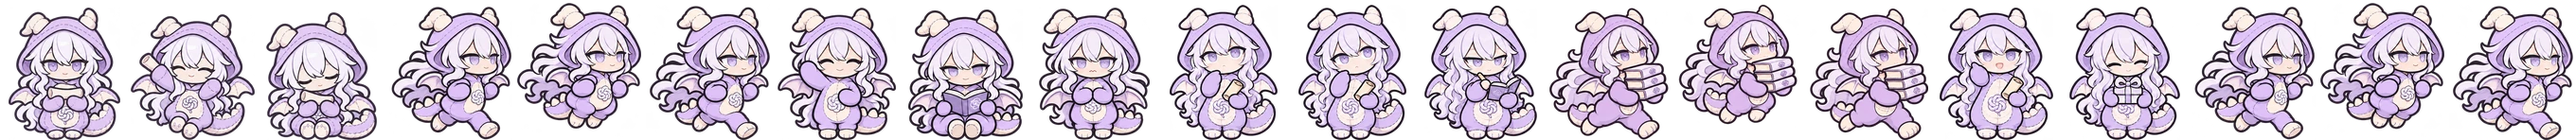
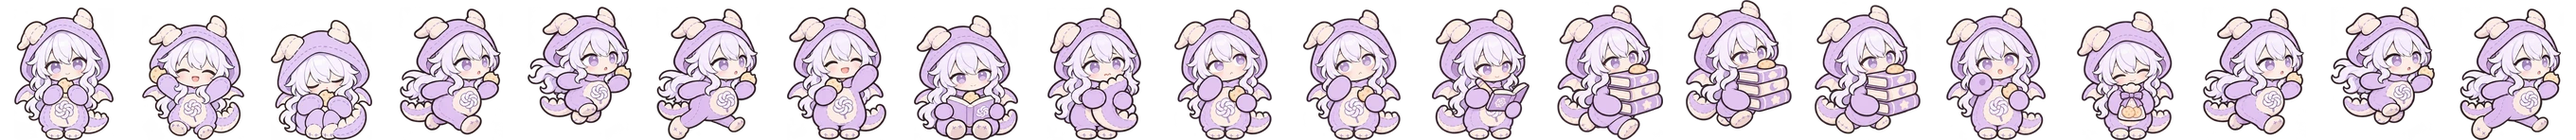
降智龙崽：自己的一套迷你小帮手（啃饼干、袖子当爪子），不再照原版 GPT 改衣服

diff --git a/tools/mini_art.py b/tools/mini_art.py
@@ -10,6 +10,8 @@
 
     python3 tools/mini_art.py new <批次> mini_move --chars gpt,… --base-batch <批次>
 --base-batch：本批没有底图（原版的 mini_more）时去那个批次找（loki 选的那版优先，没选用版本号最大的）。
+退回重画一串时按底图顺序退（mini → mini_more → mini_work → mini_carry，原版再皮肤）：底图那张已经退回的，
+后面的提示词就指向它要画的新版（…__vN.png），不会拿退回前的旧版当底图。
 
 出题 / 退回重写提示词的 mini 批次请用这个，不要直接用 art.py（art.py 会按普通姿态重写，皮肤就没了底图）。
 check、review、status 两个都一样。
@@ -28,6 +30,11 @@ BASE_BATCH = None
 
 def base_source(batch, st, cid, base_pose):
     src, in_batch = _base_source(batch, st, cid, base_pose)
+    if in_batch:   # 底图那张被退回重画了（现有版本都不算数）：指向要画的新版，不用旧的
+        item = next((i for i in st["items"] if i["char"] == cid and i["pose"] == base_pose), {})
+        vs = art.versions(batch, cid, base_pose)
+        if item.get("state") == "退回" and vs and item.get("rejected", 0) >= vs[-1][0]:
+            return art.done_pattern(batch, cid, base_pose), True
     if in_batch or not BASE_BATCH:
         return src, in_batch
     other = art.load(BASE_BATCH)
@@ -68,20 +75,27 @@ def write_md(batch, item, ch, title, attach, blocks):
     p.write_text("\n".join(md))
 
 
+def own_mini(cid):
+    """角色文件写了「迷你: 自己画」的皮肤：小帮手不照原版改衣服，像新角色一样按她自己的动作画（比如降智龙崽）"""
+    p = art.ART / "角色" / f"{cid}.md"
+    return p.exists() and bool(art.re.search(r"^迷你: *自己画\s*$", p.read_text(), art.re.M))
+
+
 def write_prompt(batch, st, item):
     ch, pose = art.read_character(item["char"]), read_pose(item["pose"], item["char"])
     if not pose["pose"].startswith("mini"):
         return _write_prompt(batch, st, item)
     out = art.done_pattern(batch, ch["id"], pose["pose"])
-    if ch["base"]:   # 皮肤：拿原版同一张改衣服
+    if ch["base"] and not own_mini(ch["id"]):   # 皮肤：拿原版同一张改衣服
         src, in_batch = art.base_source(batch, st, ch["base"], pose["pose"])
         if in_batch:
             src = art.done_pattern(batch, ch["base"], pose["pose"])
         attach = [(src, f"底图：原版 {ch['base']} 的 {pose['pose']}"
                    + ("（本批画好的那张：loki 在验收页选了哪版就用哪版，没选用版本号最大的）" if in_batch else "") + "，要改的就是它")]
         attach += [(art.ROOT / r, "换装参考：只看衣服、发饰和道具，不要照它画脸和姿势") for r in ch["refs"]]
-        blocks = [art.rule("迷你-换衣"), ch["lock"],
-                  f"POSE ({pose['pose']}): the same sheet as the first image, in this skin.\nSave as: {out.name}"]
+        # 皮肤自己写了这一张的动作（比如换成哪个道具）就用它写的，没写就是「照第一张、换这身衣服」
+        own = ch["lines"].get(pose["pose"]) or "the same sheet as the first image, in this skin."
+        blocks = [art.rule("迷你-换衣"), ch["lock"], f"POSE ({pose['pose']}): {own}\nSave as: {out.name}"]
         return write_md(batch, item, ch, pose["title"] + "（皮肤：拿原版改衣服）", attach, blocks)
     _write_prompt(batch, st, item)   # 原版：照常出题，再补上画风参考
     if pose["style"] and ch["id"] not in Path(pose["style"]).stem.split("-"):

diff --git a/art/任务/2026-11-23-迷你小帮手-降智龙崽/提示词/gpt-onesie__mini_work.md b/art/任务/2026-11-23-迷你小帮手-降智龙崽/提示词/gpt-onesie__mini_work.md
@@ -1,0 +1,41 @@
+# GPT · 降智龙崽 · mini_work · 迷你小帮手 · 第三张（思考 2 帧、记笔记、搬书、喊你、递礼物）
+
+- 保存到：`art/任务/2026-11-23-迷你小帮手-降智龙崽/成品/gpt-onesie__mini_work__vN.png`：N 换成下一个没用过的数字（还没有就是 v1，已经有 v1、v2 就存 v3）。**每画一次都存新的一版，不要覆盖、删除、挪走旧的**（PNG，透明背景，生图时开 `transparent_background: true`）
+- 附件（按顺序附上）：
+  1. `art/任务/2026-11-23-迷你小帮手-降智龙崽/成品/gpt-onesie__mini__vN.png`（底图：mini（本批画好的那张：loki 在验收页选了哪版就用哪版，没选用版本号最大的））　⚠ 文件还不存在：先画它
+  2. `characters/gpt-onesie/idle.webp`（设计参考）
+  3. `characters/gpt-onesie/portrait.webp`（设计参考）
+
+## 提示词
+
+```text
+Create a third sprite sheet for the SAME tiny "mini helper" as the first attachment. The first attachment is her approved mini sheet (idle, happy, sleep, walk): copy that exact mini — same head size, face, eyes, hair, hair ornaments on the same side, outfit, colors, signature prop, outline weight and shading. It must look like more frames from the same sheet, not a new design. The other attachments are the approved big character design, for colors only. Do not draw the big character. It is shown at about 100 pixels tall next to her, so it must read clearly when small.
+
+LAYOUT: One landscape image, 1536x1024, with a real transparent background (transparent_background: true). Exactly six minis in a 3-column x 2-row grid, one per cell, each centered in its cell and drawn at the same scale as each other and as the minis in the first attachment (each about 360 px tall when standing). Leave wide transparent gaps: no part of one mini may touch another mini or the image edge.
+
+TOP ROW, left to right:
+1. think-a: standing and facing the viewer, one finger on her chin, eyes looking up to one side, small thoughtful "hmm" mouth, her signature prop held against her side with the other arm.
+2. think-b: the second frame of the same thinking loop: exactly the same body, feet, prop and arm as think-a; only her head tilts a little to the OTHER side, eyes looking up to the other side, and the finger taps her cheek instead of her chin.
+3. notes: standing in three-quarter view, a small notebook held open in one hand, writing in it with a tiny pencil in the other hand, focused face.
+
+BOTTOM ROW, left to right:
+4. carry: running toward the viewer's RIGHT in three-quarter view, mid-stride, carrying a tall stack of three books in both arms, peeking over the stack, busy determined face.
+5. point: standing and facing the viewer, looking straight at the viewer, one arm stretched up pointing at the viewer as if saying "hey, you!", mouth open, her signature prop under her other arm.
+6. gift: bowing slightly toward the viewer, holding out a small wrapped gift box with a ribbon in both hands, shy happy smile, eyes closed; her signature prop is not in this pose.
+
+FORMAT: A thick, continuous dark outline around each whole silhouette; flat two-tone cel shading; few, chunky details and no thin lines that vanish when shrunk. No floor, ground line, cast shadow, motion lines, dust, glow, frame, text, letters, numbers, question marks, symbols, hearts, sweat drops, sparkles or other effects: the app draws all effects itself.
+
+CHARACTER LOCK — GPT (the white dragon girl, anime-girl personification of GPT) in her "dragon-cub onesie" skin, an alternate outfit. In this outfit she is a sweet, slightly airheaded version of herself: gentle, a half-beat slow to react, absent-minded and curious, quietly over-careful. Soft and cute, NEVER dumb or mocked: no drool, no crossed eyes, no blank or dead eyes, no silly faces.
+Keep exactly:
+- Very long, wavy WHITE hair (soft lavender tint only in the shadows) flowing out from under the hood over her shoulders. The hood completely covers the crown, with a smooth arc of lavender fabric between its two stuffed horns. White hair is visible only at the hood opening and from underneath its edges. No ahoge or tuft may poke out of the crown.
+- Big round pale-lavender eyes with soft round highlights; soft pink blush.
+- An oversized lavender dragon-cub onesie with dashed stitch lines. The hood is always up, with two cream stuffed horns (the one on the viewer's left flops over slightly). The long sleeves hide her hands ("sleeve-paws"); when she holds something, she grips it with the sleeve ends or only her fingertips peek out.
+- A cream belly with stitched scale lines, and on its center a handmade white felt knot patch (six interlaced rounded loops, lavender running stitches around it, one short loose thread dangling below). Whenever her front is visible, this patch must be visible and recognizable.
+- Round cream footies with stitched claws; small lavender plush wings with cream undersides on her back; a fat stuffed lavender tail with cream spikes curling out on the viewer's right.
+- Her real horns, elf ears and dress are NOT drawn. NO other knot ornaments, NO tassels, NO hair accessories.
+Palette: lavender onesie, cream belly / horns / paws / spikes, white hair, pale-pink blush. Keep it soft; never add strong colors.
+How she shows emotion: soft and small. Head tilts, the floppy stuffed horn droops or perks up, long sleeves flop, plush wings flutter or droop, the tail sways. Even big emotions stay gentle: a small hop, a little "o" mouth, a closed-eye smile. No wide grins, no shouting.
+
+POSE (mini_work): Her own cute versions of the six cells, same order and meaning: Her signature prop in all her mini sheets is a small round cream cookie with one bite missing, held with her sleeve-paws (her hands always stay hidden in the long sleeves). Keep the felt knot patch on her belly whenever her front is visible. She is extra soft and cute: round squishy cheeks, a sleepy-sweet face, the floppy stuffed horn and long empty sleeve tips doing the acting. think-a: one sleeve-paw pressed against her cheek, eyes drifting up to one side, a slow "hmm" mouth, the cookie in the other sleeve. think-b: exactly the same body, feet and cookie arm as think-a; only her head tilts the other way, the floppy horn flops to the other side and the sleeve-paw presses the other spot on her cheek. notes: holding a small notebook open in one sleeve-paw and writing in it with a stubby crayon gripped in the other sleeve end, tail tip curled in concentration. carry: running toward the viewer's RIGHT carrying a stack of three picture books in both sleeve-paws with the cookie balanced on top, peeking over it. point: pointing at the viewer with one empty floppy sleeve tip, a half-beat-late surprised "o" mouth as if she just remembered something, the cookie in the other sleeve. gift: bowing slightly and holding out a small paper bag of cookies tied with a lavender ribbon in both sleeve-paws, a shy happy closed-eye smile.
+Save as: gpt-onesie__mini_work__vN.png
+```

diff --git a/art/任务/2026-11-23-迷你小帮手-降智龙崽/提示词/gpt-onesie__mini_more.md b/art/任务/2026-11-23-迷你小帮手-降智龙崽/提示词/gpt-onesie__mini_more.md
@@ -1,0 +1,41 @@
+# GPT · 降智龙崽 · mini_more · 迷你小帮手 · 第二张（跑步 3 帧 + 挥手、看书、着急）
+
+- 保存到：`art/任务/2026-11-23-迷你小帮手-降智龙崽/成品/gpt-onesie__mini_more__vN.png`：N 换成下一个没用过的数字（还没有就是 v1，已经有 v1、v2 就存 v3）。**每画一次都存新的一版，不要覆盖、删除、挪走旧的**（PNG，透明背景，生图时开 `transparent_background: true`）
+- 附件（按顺序附上）：
+  1. `art/任务/2026-11-23-迷你小帮手-降智龙崽/成品/gpt-onesie__mini__vN.png`（底图：mini（本批画好的那张：loki 在验收页选了哪版就用哪版，没选用版本号最大的））　⚠ 文件还不存在：先画它
+  2. `characters/gpt-onesie/idle.webp`（设计参考）
+  3. `characters/gpt-onesie/portrait.webp`（设计参考）
+
+## 提示词
+
+```text
+Create a second sprite sheet for the SAME tiny "mini helper" as the first attachment. The first attachment is her approved mini sheet (idle, happy, sleep, walk): copy that exact mini — same head size, face, eyes, hair, hair ornaments on the same side, outfit, colors, signature prop, outline weight and shading. It must look like more frames from the same sheet, not a new design. The other attachments are the approved big character design, for colors only. Do not draw the big character. It is shown at about 100 pixels tall next to her, so it must read clearly when small.
+
+LAYOUT: One landscape image, 1536x1024, with a real transparent background (transparent_background: true). Exactly six minis in a 3-column x 2-row grid, one per cell, each centered in its cell and drawn at the same scale as each other and as the minis in the first attachment (each about 360 px tall when standing). Leave wide transparent gaps: no part of one mini may touch another mini or the image edge.
+
+TOP ROW, left to right: a 3-frame run cycle, all three running toward the viewer's RIGHT in three-quarter view, the same angle as the walk pose in the first attachment, her signature prop tucked under one arm or held in one hand. Same head size and same body proportions in all three frames; only the legs, arms, hair and skirt move.
+1. run-a: her near (front) leg stretched forward with the heel just touching the ground, back leg pushing off behind her, opposite arm swinging forward; body slightly low.
+2. run-b: passing pose: body at its highest, both feet off the ground, one knee bent up under her, legs close together; hair and skirt lifted a little.
+3. run-c: the mirror step of run-a: her far (back) leg now stretched forward touching the ground and the near leg pushing off behind; the other arm swinging forward; body slightly low.
+
+BOTTOM ROW, left to right:
+4. wave: standing and facing the viewer, cheerful smile, one hand raised high waving, her signature prop held against her chest with the other arm.
+5. read: sitting on the ground with legs out in front, a small book open on her lap, looking down reading it, calm content face.
+6. worried: standing and facing the viewer, hugging her signature prop tightly to her chest with both arms, eyebrows raised in worry, small wobbly mouth.
+
+FORMAT: A thick, continuous dark outline around each whole silhouette; flat two-tone cel shading; few, chunky details and no thin lines that vanish when shrunk. No floor, ground line, cast shadow, motion lines, dust, glow, frame, text, letters, numbers, symbols, hearts, sweat drops, sparkles or other effects: the app draws all effects itself.
+
+CHARACTER LOCK — GPT (the white dragon girl, anime-girl personification of GPT) in her "dragon-cub onesie" skin, an alternate outfit. In this outfit she is a sweet, slightly airheaded version of herself: gentle, a half-beat slow to react, absent-minded and curious, quietly over-careful. Soft and cute, NEVER dumb or mocked: no drool, no crossed eyes, no blank or dead eyes, no silly faces.
+Keep exactly:
+- Very long, wavy WHITE hair (soft lavender tint only in the shadows) flowing out from under the hood over her shoulders. The hood completely covers the crown, with a smooth arc of lavender fabric between its two stuffed horns. White hair is visible only at the hood opening and from underneath its edges. No ahoge or tuft may poke out of the crown.
+- Big round pale-lavender eyes with soft round highlights; soft pink blush.
+- An oversized lavender dragon-cub onesie with dashed stitch lines. The hood is always up, with two cream stuffed horns (the one on the viewer's left flops over slightly). The long sleeves hide her hands ("sleeve-paws"); when she holds something, she grips it with the sleeve ends or only her fingertips peek out.
+- A cream belly with stitched scale lines, and on its center a handmade white felt knot patch (six interlaced rounded loops, lavender running stitches around it, one short loose thread dangling below). Whenever her front is visible, this patch must be visible and recognizable.
+- Round cream footies with stitched claws; small lavender plush wings with cream undersides on her back; a fat stuffed lavender tail with cream spikes curling out on the viewer's right.
+- Her real horns, elf ears and dress are NOT drawn. NO other knot ornaments, NO tassels, NO hair accessories.
+Palette: lavender onesie, cream belly / horns / paws / spikes, white hair, pale-pink blush. Keep it soft; never add strong colors.
+How she shows emotion: soft and small. Head tilts, the floppy stuffed horn droops or perks up, long sleeves flop, plush wings flutter or droop, the tail sways. Even big emotions stay gentle: a small hop, a little "o" mouth, a closed-eye smile. No wide grins, no shouting.
+
+POSE (mini_more): Her own cute versions of the six cells, same order and meaning: Her signature prop in all her mini sheets is a small round cream cookie with one bite missing, held with her sleeve-paws (her hands always stay hidden in the long sleeves). Keep the felt knot patch on her belly whenever her front is visible. She is extra soft and cute: round squishy cheeks, a sleepy-sweet face, the floppy stuffed horn and long empty sleeve tips doing the acting. Run frames: a toddler's waddling run toward the viewer's RIGHT, both floppy sleeves held out to the sides for balance (the cookie in one), the fat tail bouncing behind, a determined little "o" mouth. wave: waving a half-beat late, one long sleeve flopping high over her head with the empty sleeve tip swinging, the cookie in the other sleeve, a slow sleepy smile. read: sitting with her round footies out in front, a small picture book open on her lap with the cookie resting on the page, head tilted as she reads. worried: hugging her own fat stuffed tail with both sleeve-paws instead of the cookie, the floppy horn drooping, eyes glancing to the side, a small wobbly "o" mouth.
+Save as: gpt-onesie__mini_more__vN.png
+```

diff --git a/art/任务/2026-11-23-迷你小帮手-降智龙崽/提示词/gpt-onesie__mini.md b/art/任务/2026-11-23-迷你小帮手-降智龙崽/提示词/gpt-onesie__mini.md
@@ -1,0 +1,40 @@
+# GPT · 降智龙崽 · mini · 迷你小帮手（好感度礼物）
+
+- 保存到：`art/任务/2026-11-23-迷你小帮手-降智龙崽/成品/gpt-onesie__mini__vN.png`：N 换成下一个没用过的数字（还没有就是 v1，已经有 v1、v2 就存 v3）。**每画一次都存新的一版，不要覆盖、删除、挪走旧的**（PNG，透明背景，生图时开 `transparent_background: true`）
+- 附件（按顺序附上）：
+  1. `characters/gpt-onesie/raw/delegating.png`（底图：delegating（现在用的那张））
+  2. `characters/gpt-onesie/idle.webp`（设计参考）
+  3. `characters/gpt-onesie/portrait.webp`（设计参考）
+  4. `docs/prompts/mini-style-claude.webp`（画风参考：只看小人的比例、线条和上色，不要照它画人物）
+
+## 提示词
+
+```text
+Create a sprite sheet of a tiny "mini helper" version of the approved character. It is a desktop-pet companion shown at about 50 pixels tall next to her, so it must read clearly when very small.
+
+REFERENCE: The first attachment (delegating) shows her sending out tiny helpers. The mini is always a tiny version of HER, never an animal, mascot or pet, even if the helpers in that image are animals. The LAST attachment is the approved mini sheet of another character in this app: match its proportions, head size, outline weight, flat shading and level of detail exactly so all the minis look like one set, but draw THIS character, not that one. The mini look: super-deformed, about 2 heads tall, very big head, short limbs, simplified outfit, but the same hair color and shape, hair ornament (on the same side), key outfit colors and signature prop, so it reads as her at a glance. The other attachments are the approved character design: follow them for colors and which side each ornament is on. Do not draw the big character.
+
+LAYOUT: One square image, at least 1024x1024, with a real transparent background (transparent_background: true). Exactly four minis of the same character in a 2x2 grid, one per quadrant, each centered in its quadrant and drawn at the same scale (each about 380 px tall). Leave wide transparent gaps: no part of one mini may touch another mini or the image edge.
+
+THE FOUR POSES, in this order (top-left, top-right, bottom-left, bottom-right):
+1. idle: standing and facing the viewer, small calm smile, holding her prop.
+2. happy: jumping with both arms raised (her prop in one hand), eyes closed in a happy ^^ smile, both feet off the ground.
+3. sleep: sitting curled up and dozing, eyes closed, head tilted, prop hugged to her chest.
+4. walk: walking toward the viewer's RIGHT in three-quarter view, mid-step, prop under one arm.
+
+FORMAT: A thick, continuous dark outline around each whole silhouette; flat two-tone cel shading; few, chunky details and no thin lines that vanish when shrunk. No floor, cast shadow, glow, frame, text, letters, symbols, hearts, Zzz, sparkles or other effects: the app draws all effects itself.
+
+CHARACTER LOCK — GPT (the white dragon girl, anime-girl personification of GPT) in her "dragon-cub onesie" skin, an alternate outfit. In this outfit she is a sweet, slightly airheaded version of herself: gentle, a half-beat slow to react, absent-minded and curious, quietly over-careful. Soft and cute, NEVER dumb or mocked: no drool, no crossed eyes, no blank or dead eyes, no silly faces.
+Keep exactly:
+- Very long, wavy WHITE hair (soft lavender tint only in the shadows) flowing out from under the hood over her shoulders. The hood completely covers the crown, with a smooth arc of lavender fabric between its two stuffed horns. White hair is visible only at the hood opening and from underneath its edges. No ahoge or tuft may poke out of the crown.
+- Big round pale-lavender eyes with soft round highlights; soft pink blush.
+- An oversized lavender dragon-cub onesie with dashed stitch lines. The hood is always up, with two cream stuffed horns (the one on the viewer's left flops over slightly). The long sleeves hide her hands ("sleeve-paws"); when she holds something, she grips it with the sleeve ends or only her fingertips peek out.
+- A cream belly with stitched scale lines, and on its center a handmade white felt knot patch (six interlaced rounded loops, lavender running stitches around it, one short loose thread dangling below). Whenever her front is visible, this patch must be visible and recognizable.
+- Round cream footies with stitched claws; small lavender plush wings with cream undersides on her back; a fat stuffed lavender tail with cream spikes curling out on the viewer's right.
+- Her real horns, elf ears and dress are NOT drawn. NO other knot ornaments, NO tassels, NO hair accessories.
+Palette: lavender onesie, cream belly / horns / paws / spikes, white hair, pale-pink blush. Keep it soft; never add strong colors.
+How she shows emotion: soft and small. Head tilts, the floppy stuffed horn droops or perks up, long sleeves flop, plush wings flutter or droop, the tail sways. Even big emotions stay gentle: a small hop, a little "o" mouth, a closed-eye smile. No wide grins, no shouting.
+
+POSE (mini): Her own cute versions of the four poses, in the same order and with the same meaning (the app uses them that way): Her signature prop in all her mini sheets is a small round cream cookie with one bite missing, held with her sleeve-paws (her hands always stay hidden in the long sleeves). Keep the felt knot patch on her belly whenever her front is visible. She is extra soft and cute: round squishy cheeks, a sleepy-sweet face, the floppy stuffed horn and long empty sleeve tips doing the acting. 1. idle: standing a little pigeon-toed, nibbling the cookie held up in both sleeve-paws, cheeks puffed, head tilted, the floppy horn drooping. 2. happy: a small bouncy hop with both floppy sleeves flung up (the cookie in one of them), eyes closed in a ^^ smile, plush wings fluttering, tail curled up. 3. sleep: curled up into a round ball like a dragon egg, the hood pulled down over her eyes, her fat tail wrapped around her, the cookie hugged to her chest. 4. walk: toddling toward the viewer's RIGHT with a waddling step, long sleeves swinging, tail swaying, the cookie in one sleeve-paw.
+Save as: gpt-onesie__mini__vN.png
+```

diff --git a/art/任务/2026-11-23-迷你小帮手-降智龙崽/提示词/gpt-onesie__mini_carry.md b/art/任务/2026-11-23-迷你小帮手-降智龙崽/提示词/gpt-onesie__mini_carry.md
@@ -1,0 +1,36 @@
+# GPT · 降智龙崽 · mini_carry · 迷你小帮手 · 抱书跑 3 帧
+
+- 保存到：`art/任务/2026-11-23-迷你小帮手-降智龙崽/成品/gpt-onesie__mini_carry__vN.png`：N 换成下一个没用过的数字（还没有就是 v1，已经有 v1、v2 就存 v3）。**每画一次都存新的一版，不要覆盖、删除、挪走旧的**（PNG，透明背景，生图时开 `transparent_background: true`）
+- 附件（按顺序附上）：
+  1. `art/任务/2026-11-23-迷你小帮手-降智龙崽/成品/gpt-onesie__mini_work__v3.png`（底图：loki 选定的 mini_work v3）
+  2. `characters/gpt-onesie/idle.webp`（设计参考）
+  3. `characters/gpt-onesie/portrait.webp`（设计参考）
+
+## 提示词
+
+```text
+Create a run cycle for the SAME tiny "mini helper" as the first attachment. The first attachment is her approved mini sheet whose bottom-left mini is "carry": running to the right with a stack of three books in her arms. Copy that exact mini — same head size, face, eyes, hair, hair ornaments on the same side, outfit, colors, book stack, outline weight and shading. It must look like more frames from the same sheet, not a new design. The other attachments are the approved big character design, for colors only. Do not draw the big character. It is shown at about 100 pixels tall next to her, so it must read clearly when small.
+
+LAYOUT: One landscape image, 1536x1024, with a real transparent background (transparent_background: true). Exactly three minis side by side in one row, each centered in its third of the image and vertically centered, all drawn at the same scale as each other and as the minis in the first attachment (each about 360 px tall). Leave wide transparent gaps: no part of one mini may touch another mini or the image edge. Nothing else in the image.
+
+THE THREE FRAMES, left to right: a 3-frame run cycle, all three running toward the viewer's RIGHT in three-quarter view at the same angle as "carry" in the first attachment, holding the same stack of three books in both arms and peeking over it with a busy, determined face. The head, arms and book stack stay exactly the same in all three frames; only the legs, hair and skirt move. The legs must clearly differ between the frames:
+1. carry-a: her near (front) leg stretched far forward with the heel just touching the ground, the far leg stretched far back pushing off; body slightly low.
+2. carry-b: passing pose: body at its highest, both feet off the ground, the near knee bent up under her and the far foot tucked behind; hair and skirt lifted a little.
+3. carry-c: the opposite step: the FAR (back) leg now stretched far forward touching the ground, and the NEAR leg stretched far back pushing off; body slightly low.
+
+FORMAT: A thick, continuous dark outline around each whole silhouette; flat two-tone cel shading; few, chunky details and no thin lines that vanish when shrunk. No floor, ground line, cast shadow, motion lines, dust, glow, frame, text, letters, numbers, symbols, hearts, sweat drops, sparkles or other effects: the app draws all effects itself.
+
+CHARACTER LOCK — GPT (the white dragon girl, anime-girl personification of GPT) in her "dragon-cub onesie" skin, an alternate outfit. In this outfit she is a sweet, slightly airheaded version of herself: gentle, a half-beat slow to react, absent-minded and curious, quietly over-careful. Soft and cute, NEVER dumb or mocked: no drool, no crossed eyes, no blank or dead eyes, no silly faces.
+Keep exactly:
+- Very long, wavy WHITE hair (soft lavender tint only in the shadows) flowing out from under the hood over her shoulders. The hood completely covers the crown, with a smooth arc of lavender fabric between its two stuffed horns. White hair is visible only at the hood opening and from underneath its edges. No ahoge or tuft may poke out of the crown.
+- Big round pale-lavender eyes with soft round highlights; soft pink blush.
+- An oversized lavender dragon-cub onesie with dashed stitch lines. The hood is always up, with two cream stuffed horns (the one on the viewer's left flops over slightly). The long sleeves hide her hands ("sleeve-paws"); when she holds something, she grips it with the sleeve ends or only her fingertips peek out.
+- A cream belly with stitched scale lines, and on its center a handmade white felt knot patch (six interlaced rounded loops, lavender running stitches around it, one short loose thread dangling below). Whenever her front is visible, this patch must be visible and recognizable.
+- Round cream footies with stitched claws; small lavender plush wings with cream undersides on her back; a fat stuffed lavender tail with cream spikes curling out on the viewer's right.
+- Her real horns, elf ears and dress are NOT drawn. NO other knot ornaments, NO tassels, NO hair accessories.
+Palette: lavender onesie, cream belly / horns / paws / spikes, white hair, pale-pink blush. Keep it soft; never add strong colors.
+How she shows emotion: soft and small. Head tilts, the floppy stuffed horn droops or perks up, long sleeves flop, plush wings flutter or droop, the tail sways. Even big emotions stay gentle: a small hop, a little "o" mouth, a closed-eye smile. No wide grins, no shouting.
+
+POSE (mini_carry): Her own carry run: exactly the carry mini from the attached sheet, carrying the same stack of three picture books with the cookie balanced on top, peeking over it; her hands stay hidden in the long sleeves.
+Save as: gpt-onesie__mini_carry__vN.png
+```

diff --git a/art/角色/gpt-onesie.md b/art/角色/gpt-onesie.md
@@ -4,6 +4,7 @@
 基于: gpt
 参考图: characters/gpt-onesie/idle.webp, characters/gpt-onesie/portrait.webp
 锁定来源: docs/prompts/皮肤-降智龙GPT/04-多会话与贴边.md
+迷你: 自己画
 
 ## 角色锁定
 
@@ -34,3 +35,7 @@ How she shows emotion: soft and small. Head tilts, the ahoge bends, the floppy s
 - friend_up: Both long sleeve-paws pressed over her mouth, giggling quietly behind them; eyes curved in a soft smile, the hood tilted a little so the floppy stuffed horn droops further, ahoge perked up, plush wings fluttering.
 - swamped_left: Getting overwhelmed: leaning toward the viewer's LEFT tapping the white tablet, the tail holding a scroll, and a second small white tablet balanced on top of her hood between the stuffed horns, tilting and about to slide off; head tilted as she tries to keep it balanced, eyes glancing up at it, a flustered "wah" mouth with two sweat drops. Nothing pinned under her arm or wing.
 - swamped_right: Same as swamped_left but leaning toward the viewer's RIGHT, the tablet in the right sleeve-paw, the tail and scroll swinging to the other side, the tablet on her hood tilting the other way.
+- mini: Her own cute versions of the four poses, in the same order and with the same meaning (the app uses them that way): Her signature prop in all her mini sheets is a small round cream cookie with one bite missing, held with her sleeve-paws (her hands always stay hidden in the long sleeves). Keep the felt knot patch on her belly whenever her front is visible. She is extra soft and cute: round squishy cheeks, a sleepy-sweet face, the floppy stuffed horn and long empty sleeve tips doing the acting. 1. idle: standing a little pigeon-toed, nibbling the cookie held up in both sleeve-paws, cheeks puffed, head tilted, the floppy horn drooping. 2. happy: a small bouncy hop with both floppy sleeves flung up (the cookie in one of them), eyes closed in a ^^ smile, plush wings fluttering, tail curled up. 3. sleep: curled up into a round ball like a dragon egg, the hood pulled down over her eyes, her fat tail wrapped around her, the cookie hugged to her chest. 4. walk: toddling toward the viewer's RIGHT with a waddling step, long sleeves swinging, tail swaying, the cookie in one sleeve-paw.
+- mini_more: Her own cute versions of the six cells, same order and meaning: Her signature prop in all her mini sheets is a small round cream cookie with one bite missing, held with her sleeve-paws (her hands always stay hidden in the long sleeves). Keep the felt knot patch on her belly whenever her front is visible. She is extra soft and cute: round squishy cheeks, a sleepy-sweet face, the floppy stuffed horn and long empty sleeve tips doing the acting. Run frames: a toddler's waddling run toward the viewer's RIGHT, both floppy sleeves held out to the sides for balance (the cookie in one), the fat tail bouncing behind, a determined little "o" mouth. wave: waving a half-beat late, one long sleeve flopping high over her head with the empty sleeve tip swinging, the cookie in the other sleeve, a slow sleepy smile. read: sitting with her round footies out in front, a small picture book open on her lap with the cookie resting on the page, head tilted as she reads. worried: hugging her own fat stuffed tail with both sleeve-paws instead of the cookie, the floppy horn drooping, eyes glancing to the side, a small wobbly "o" mouth.
+- mini_work: Her own cute versions of the six cells, same order and meaning: Her signature prop in all her mini sheets is a small round cream cookie with one bite missing, held with her sleeve-paws (her hands always stay hidden in the long sleeves). Keep the felt knot patch on her belly whenever her front is visible. She is extra soft and cute: round squishy cheeks, a sleepy-sweet face, the floppy stuffed horn and long empty sleeve tips doing the acting. think-a: one sleeve-paw pressed against her cheek, eyes drifting up to one side, a slow "hmm" mouth, the cookie in the other sleeve. think-b: exactly the same body, feet and cookie arm as think-a; only her head tilts the other way, the floppy horn flops to the other side and the sleeve-paw presses the other spot on her cheek. notes: holding a small notebook open in one sleeve-paw and writing in it with a stubby crayon gripped in the other sleeve end, tail tip curled in concentration. carry: running toward the viewer's RIGHT carrying a stack of three picture books in both sleeve-paws with the cookie balanced on top, peeking over it. point: pointing at the viewer with one empty floppy sleeve tip, a half-beat-late surprised "o" mouth as if she just remembered something, the cookie in the other sleeve. gift: bowing slightly and holding out a small paper bag of cookies tied with a lavender ribbon in both sleeve-paws, a shy happy closed-eye smile.
+- mini_carry: Her own carry run: exactly the carry mini from the attached sheet, carrying the same stack of three picture books with the cookie balanced on top, peeking over it; her hands stay hidden in the long sleeves.

diff --git a/art/交接-API生图/降智龙崽-迷你小帮手.md b/art/交接-API生图/降智龙崽-迷你小帮手.md
@@ -1,0 +1,49 @@
+# 降智龙崽（GPT 连体衣）：迷你小帮手返工
+
+现在的小帮手是拿原版 GPT 的小帮手直接换成连体衣，动作和原版一模一样，表情也平。这次**按她自己的样子重画**：抱着一块咬了一口的小饼干，慢半拍、软乎乎的，长袖子盖住手，耷拉的那只布角和空荡荡的袖口来演戏。
+
+要画 4 张。提示词都已拼好，在 [art/任务/2026-11-23-迷你小帮手-降智龙崽/提示词/](../任务/2026-11-23-迷你小帮手-降智龙崽/提示词/)，打开对应文件，把「提示词」那一段整段复制即可。
+
+## 通用要求
+
+- 接口和参数照 [新角色与新皮肤.md](新角色与新皮肤.md) 第 0 节：编辑接口、透明背景、最高质量、`n = 1`。**每张只画 1 版**，作者看过需要再说重画哪张。
+- 尺寸：`mini` 是 1024×1024 方图，其余 3 张是 1536×1024 横图。
+- **每张单独调用**，只附提示词文件里写的附件，按顺序传，第一张是底图。
+- 文件命名：`gpt-onesie__<姿态>__v<N>.png`，第一次画是 v1，交回后放进 `art/任务/2026-11-23-迷你小帮手-降智龙崽/成品/`。
+- **必须按顺序画，每一步等作者选定再往下**：
+  1. 先画 `mini`。
+  2. 作者选定后，用选定的那版当底图，画 `mini_more` 和 `mini_work`。
+  3. `mini_work` 选定后，再画 `mini_carry`。
+
+## 清单
+
+| # | 姿态 | 尺寸 | 附件 |
+|---|---|---|---|
+| 1 | mini · 啃饼干、举袖子蹦、缩成龙蛋睡、摇摇摆摆走 | 1024×1024 | 1. `characters/gpt-onesie/raw/delegating.png`　2. `characters/gpt-onesie/idle.webp`　3. `characters/gpt-onesie/portrait.webp`　4. `docs/prompts/mini-style-claude.webp`（画风参考） |
+| 2 | mini_more · 张着袖子小跑 3 帧、慢半拍挥袖子、坐着看绘本、抱着尾巴着急 | 1536×1024 | 1. `gpt-onesie__mini__v?.png`（作者选定的那版）　2. `idle.webp`　3. `portrait.webp` |
+| 3 | mini_work · 袖子贴脸想 2 帧、蜡笔记笔记、顶着饼干抱书跑、空袖口指你、递一袋饼干 | 1536×1024 | 1. `gpt-onesie__mini__v?.png`（作者选定的那版）　2. `idle.webp`　3. `portrait.webp` |
+| 4 | mini_carry · 抱书跑 3 帧 | 1536×1024 | 1. `gpt-onesie__mini_work__v?.png`（作者选定的那版）　2. `idle.webp`　3. `portrait.webp` |
+
+`idle.webp`、`portrait.webp` 都在 `characters/gpt-onesie/` 里。
+
+## 龙崽这只要注意的
+
+- 每一格的意思不能变（第几格是待机、第几格是跑步……），程序按位置取帧。只是动作换成她自己的版本，提示词里都写好了。
+- 手一直藏在长袖子里，拿东西用袖口夹着。
+- 招牌道具是一块咬了一口的奶油色小饼干。抱书跑时饼干放在书顶上；递礼物那格递的是一小袋饼干。
+- 肚子上的白色绳结布贴，正面能看到时一定要画。
+- 软萌，不要傻：不流口水、不翻白眼、不做鬼脸。
+
+### 自查
+
+- 背景真透明，没有地板、投影、特效、字。
+- 每格一个小人，彼此不碰、不碰边框，大小一致。
+- 后面 3 张里的小人和选定的 `mini` 是同一个：头一样大、帽子上的布角一样、耷拉的那只在画面左边。
+- `mini_carry` 三帧和 `mini_work` 左下那个抱书的一模一样，只有腿在动。
+
+## 现在画到哪了（2026-11-23）
+
+- `mini_work` 作者选了 **v3**，用它左下角的抱书姿势作为 `mini_carry` 的底图。
+- 三张附件已按顺序放在 [降智龙崽-mini_carry-附件/](降智龙崽-mini_carry-附件/)：`1-底图-mini_work_v3.png`、`2-idle.webp`、`3-portrait.webp`，照文件名顺序附上即可。
+- 提示词：[gpt-onesie__mini_carry.md](../任务/2026-11-23-迷你小帮手-降智龙崽/提示词/gpt-onesie__mini_carry.md) 的「提示词」那一段。1536×1024，透明背景，交回存成 `gpt-onesie__mini_carry__v1.png`，放进 `art/任务/2026-11-23-迷你小帮手-降智龙崽/成品/`。
+- `mini_carry` v1 已交回，待验收。[抱书跑三帧 PNG](../任务/2026-11-23-迷你小帮手-降智龙崽/成品/gpt-onesie__mini_carry__v1.png) · [批次对比页](../任务/2026-11-23-迷你小帮手-降智龙崽/对比.html)

diff --git a/art/任务/2026-11-23-迷你小帮手-降智龙崽/任务.md b/art/任务/2026-11-23-迷你小帮手-降智龙崽/任务.md
@@ -1,0 +1,14 @@
+# 批次：2026-11-23-迷你小帮手-降智龙崽
+
+mini：mini · 迷你小帮手（好感度礼物）；mini_more：mini_more · 迷你小帮手 · 第二张（跑步 3 帧 + 挥手、看书、着急）；mini_work：mini_work · 迷你小帮手 · 第三张（思考 2 帧、记笔记、搬书、喊你、递礼物）；mini_carry：mini_carry · 迷你小帮手 · 抱书跑 3 帧
+
+共 4 张，还要画 0 张。状态：待画 → 机检不过 / 待验收 → 通过 / 退回 → 已导入。
+
+**给 Codex**：照 [art/AGENTS.md](../../AGENTS.md) 做。只画状态是「待画」「机检不过」「退回」的，按表格顺序一张一张画（成对的左边那张在前），每张单独打开它的提示词、按顺序附上附件、存到提示词里写的路径；每画完一张跑 `python3 tools/art.py check 2026-11-23-迷你小帮手-降智龙崽`。
+
+| # | 角色 | 姿态 | 状态 | 提示词 | 说明 |
+|---|---|---|---|---|---|
+| 1 | gpt-onesie | mini | 通过 | [提示词](提示词/gpt-onesie__mini.md) |  |
+| 2 | gpt-onesie | mini_more | 通过 | [提示词](提示词/gpt-onesie__mini_more.md) |  |
+| 3 | gpt-onesie | mini_work | 通过 | [提示词](提示词/gpt-onesie__mini_work.md) |  |
+| 4 | gpt-onesie | mini_carry | 通过 | [提示词](提示词/gpt-onesie__mini_carry.md) | 脚离底边 28%：可能没站在底边；人物比待机图小 50%（桌面上会忽大忽小） |
